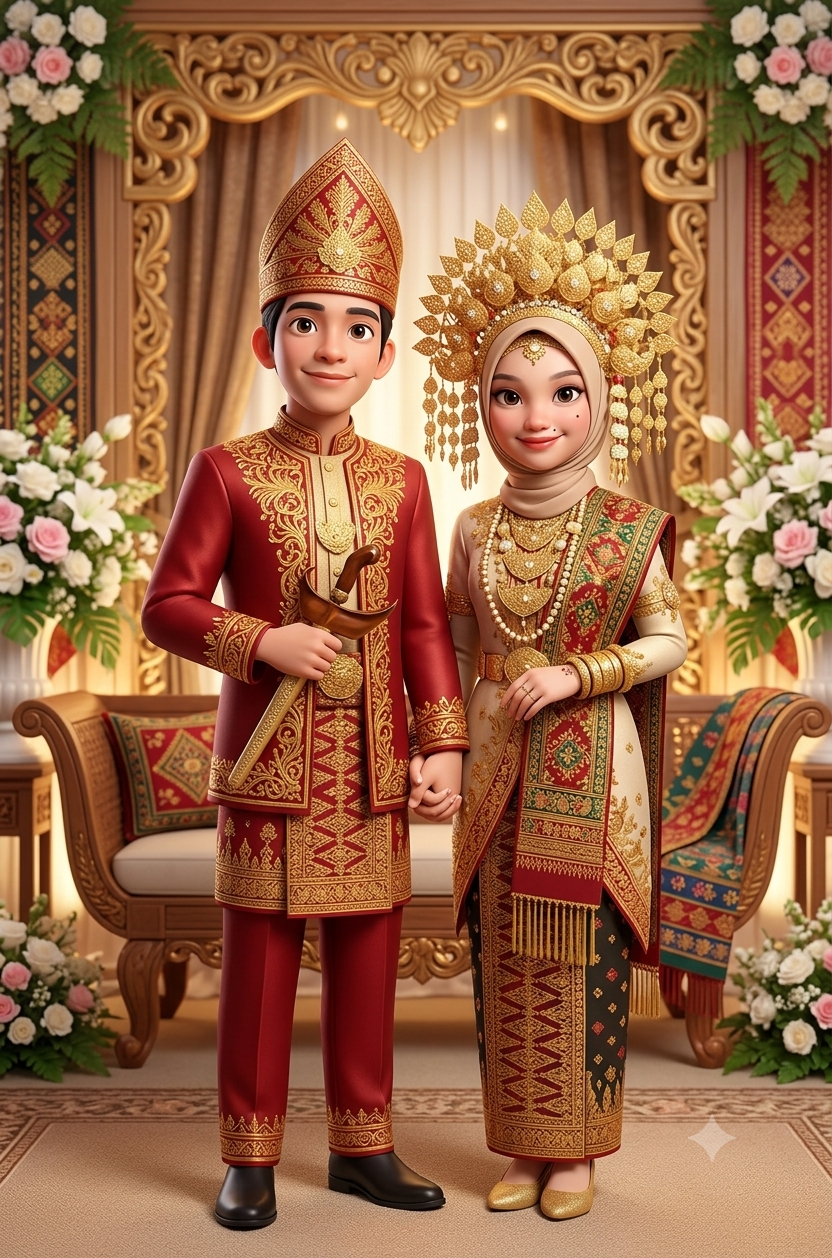
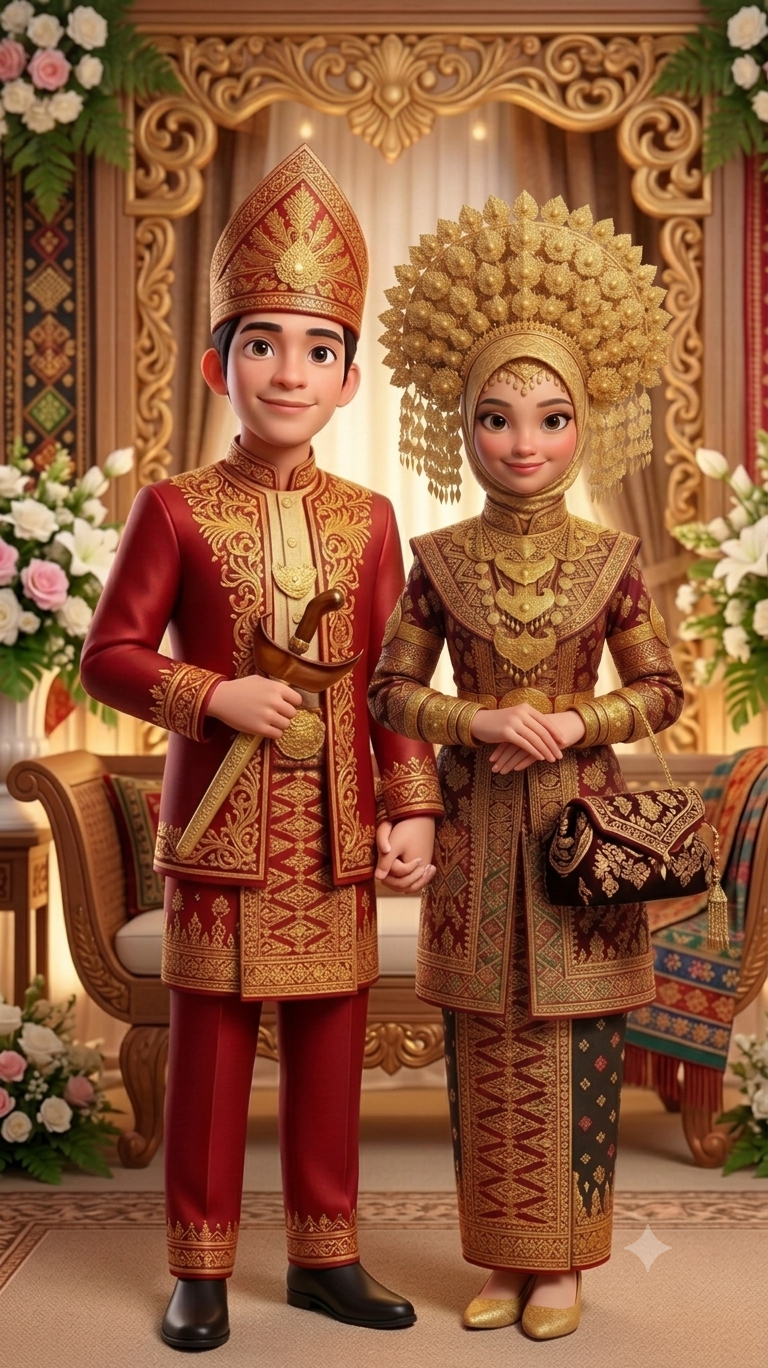
Memperbarui gambar dan konfigurasi request

diff --git a/js/connection/request.js b/js/connection/request.js
@@ -326,7 +326,50 @@ export const request = (method, path) => {
                 Object.keys(defaultJSON).forEach((k) => req.headers.delete(k));
             }
 
-            return baseFetch(new URL(path, document.body.getAttribute('data-url'))).then((res) => {
+            let baseUrl = document.body.getAttribute('data-url');
+            let targetUrl;
+
+            if (baseUrl && baseUrl.includes('script.google.com')) {
+                // Clear headers to avoid preflight CORS check
+                req.headers = new Headers();
+
+                let urlObj = new URL(baseUrl);
+                let action = '';
+
+                if (path.startsWith('/api/v2/comment')) {
+                    action = 'getComments';
+                } else if (path.startsWith('/api/v2/config')) {
+                    action = 'getConfig';
+                } else if (path === '/api/comment' || path.startsWith('/api/comment?')) {
+                    action = 'postComment';
+                } else if (req.method === 'POST' && path.startsWith('/api/comment/')) {
+                    action = 'likeComment';
+                    let commentUuid = path.split('/').pop();
+                    urlObj.searchParams.set('comment_uuid', commentUuid);
+                } else if (req.method === 'PATCH' && path.startsWith('/api/comment/')) {
+                    action = 'unlikeComment';
+                    let likeUuid = path.split('/').pop();
+                    urlObj.searchParams.set('like_uuid', likeUuid);
+                    // Google Apps Script only supports GET and POST, so change PATCH to POST
+                    req.method = 'POST';
+                }
+
+                urlObj.searchParams.set('action', action);
+
+                // Copy query parameters from path (like per, next, lang)
+                if (path.includes('?')) {
+                    let pathParams = new URLSearchParams(path.split('?')[1]);
+                    pathParams.forEach((val, key) => {
+                        urlObj.searchParams.set(key, val);
+                    });
+                }
+
+                targetUrl = urlObj.toString();
+            } else {
+                targetUrl = new URL(path, baseUrl);
+            }
+
+            return baseFetch(targetUrl).then((res) => {
                 if (downName && res.ok) {
                     return baseDownload(res).then((r) => ({
                         code: r.status,
@@ -347,7 +390,7 @@ export const request = (method, path) => {
                         json.data = transform(json.data);
                     }
 
-                    return Object.assign(json, { code: res.status });
+                    return Object.assign(json, { code: json.code ?? res.status });
                 });
             }).catch((err) => {
                 if (err.name === ERROR_ABORT) {

diff --git a/index.html b/index.html
@@ -86,7 +86,7 @@
 
 <!-- <html lang="id" data-bs-theme="auto"> ['auto', 'dark', 'light'] -->
 
-<body data-key="d9faced3377732b0edf19e90d1bde0cd5de04801c75eb41743" data-url="https://api.ulems.my.id/" data-audio="./assets/music/pure-love-304010.mp3" data-confetti="true" data-time="2026-08-08 09:00:00">
+<body data-key="my-google-sheet-db" data-url="https://script.google.com/macros/s/AKfycbw1KQg_o7QChs4GoLr3Z2Wtkmu5IdnYLJoJ3LOqe9cXTDoIy_aQF8iMCUYbJ9lrDtQS/exec" data-audio="./assets/music/pure-love-304010.mp3" data-confetti="true" data-time="2026-08-08 09:00:00">
 
     <!-- Root Invitation -->
     <div class="row m-0 p-0 opacity-0" id="root">
